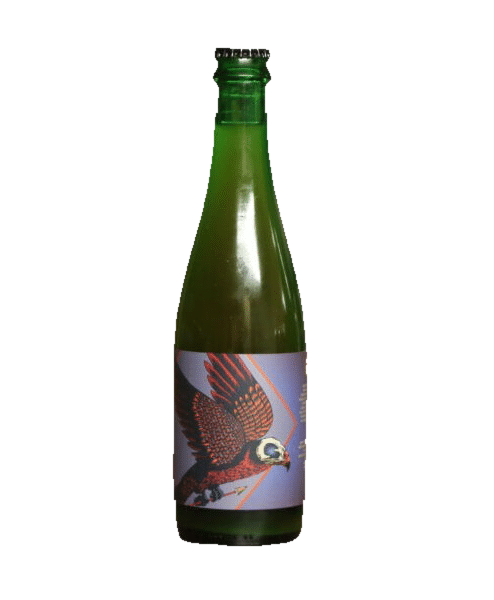
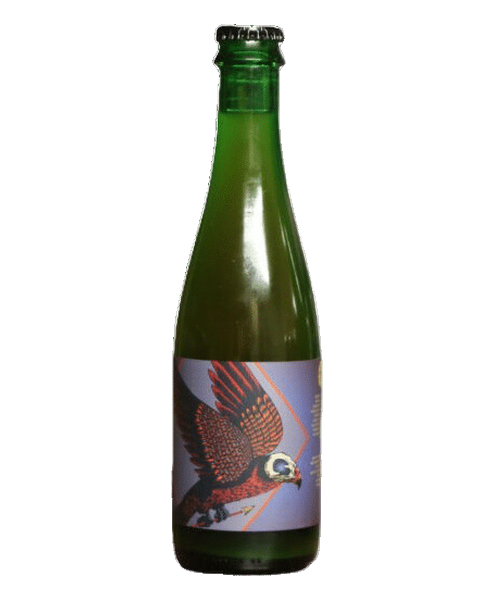
t144u: earnest HK capitals + Iron full-bottle rembg (no morph chop)
Earnest: Exploring Hong Kong's flavour through beer.
Iron rebuilt from studio pre-rembg with bria rembg+decontam only
(no erode), padded into 600×600 / 494×600 with black margin above
cap and below base. Clipped t136u PNGs backed up under
_pre-rembg/t144u-pre-fullbottle/. Cans and brewery-first playlist untouched.

Changed region(s): [[0.334, 0.03, 0.668, 0.96], [0.3947, 0.3, 0.4251, 0.39], [0.3644, 0.42, 0.3947, 0.51]]

diff --git a/index.html b/index.html
@@ -228,7 +228,7 @@
       <div>
         <div class="speak">
         <h1>Hong Kong’s flavour.</h1>
-        <p class="earnest">Exploring hong kong's flavour through beer</p>
+        <p class="earnest">Exploring Hong Kong's flavour through beer</p>
         </div>
       </div>
     </div>
